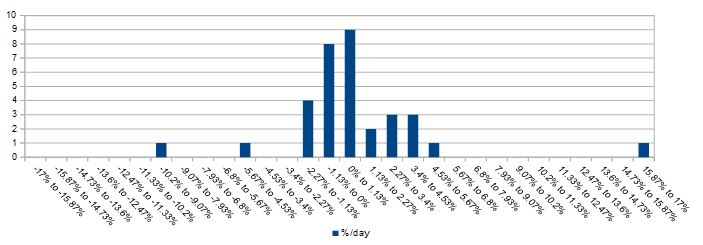
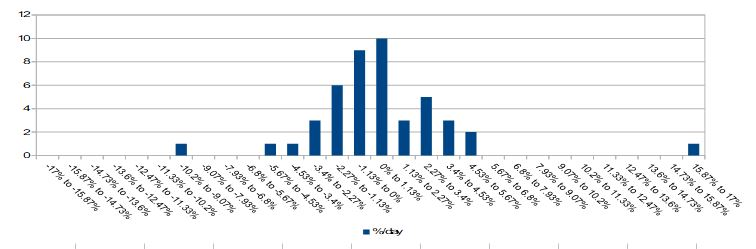
update readme

Changed region(s): [[0.0, 0.0286, 0.9858, 0.9143], [0.4481, 0.9143, 0.5377, 0.9714]]

diff --git a/README.md b/README.md
@@ -85,7 +85,7 @@ After the first day, assuming you have stocks held, it will show something simil
 
 Generally it seems that it takes about 5 weeks (+/- 3 weeks) after the initial jump to jump a second time.
 
-From testing between 2020-07-14 to 2020-08-31, I have gotten an average growth rate of 0.71%/day with a standard deviation of 3.9% (including 1 week of no trading due to a power outage)
+From testing between 2020-07-14 to 2020-09-16, I have gotten an average growth rate of 0.44%/day with a standard deviation of 3.62% (including 1 week of no trading due to a power outage)
 
 ![Daily Returns](https://github.com/steveman1123/stonkBot/blob/master/dailyReturns.jpg?raw=true)
 
